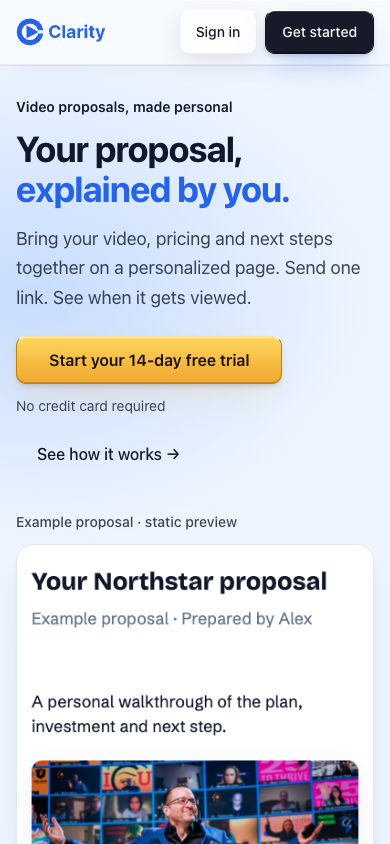
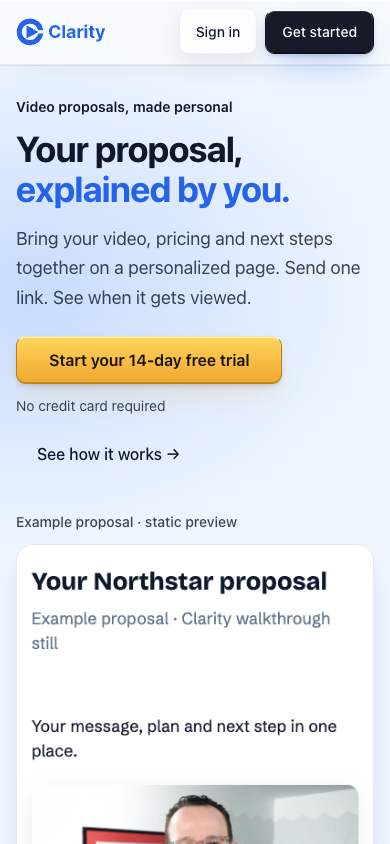
Publish design-benchmark-2026-11-04 (20261104T195632Z)

Changed region(s): [[0.0615, 0.8009, 0.9231, 1.0], [0.4615, 0.7085, 0.8308, 0.7701], [0.0923, 0.7393, 0.1538, 0.7701]]

diff --git a/design-benchmark-2026-11-04/index.html b/design-benchmark-2026-11-04/index.html
@@ -1,1 +1,1 @@
-<!doctype html><html lang="en"><head><meta charset="utf-8"><meta name="viewport" content="width=device-width,initial-scale=1"><title>Clarity design benchmark progress</title><style>*{box-sizing:border-box}html{scroll-behavior:smooth}body{margin:0;color:#172033;background:#f5f7fb;font:15px/1.6 system-ui,sans-serif}main{max-width:1100px;margin:auto;padding:40px 24px}header{max-width:850px}h1{font-size:clamp(30px,5vw,48px);line-height:1.12;letter-spacing:-.04em;margin:10px 0 18px}h2{font-size:25px;letter-spacing:-.025em}h3{margin:0 0 12px}a{color:#285dc5;text-underline-offset:3px}p{max-width:78ch}.eyebrow{font-size:13px;color:#56647c}.intro{font-size:20px;color:#56647c}.notice{padding:18px 20px;background:#e8effd;border-left:3px solid #285dc5;border-radius:6px}nav{display:flex;gap:20px;flex-wrap:wrap;padding:26px 0;border-bottom:1px solid #dce2ec}section{padding:30px 0}.chart{padding:22px;background:white;border:1px solid #dce2ec;border-radius:12px}.bar-row{display:grid;grid-template-columns:110px minmax(50px,1fr) 32px;gap:12px;align-items:center;margin:13px 0}.bar-row a{text-decoration:none}.track{height:18px;background:#edf1f7;border-radius:4px;overflow:hidden}.bar{height:100%;background:#3973dc;border-radius:4px}.table-wrap{overflow:auto}table{width:100%;border-collapse:collapse;background:white}th,td{padding:12px;text-align:left;border-bottom:1px solid #e1e5ec;vertical-align:top}tbody th{font-weight:550;min-width:150px}details{margin-top:14px}summary{cursor:pointer;font-weight:600}.cards{display:grid;grid-template-columns:repeat(2,minmax(0,1fr));gap:20px}article{background:white;border:1px solid #dce2ec;border-radius:12px;padding:18px;overflow:hidden}article img{display:block;width:100%;height:auto;border:1px solid #e1e5ec;border-radius:5px}article p{font-size:13px;color:#56647c}footer{border-top:1px solid #dce2ec;padding:22px 0;color:#56647c;font-size:13px}@media(max-width:650px){main{padding:24px 16px}.cards{grid-template-columns:1fr}.chart{padding:12px}.bar-row{grid-template-columns:92px minmax(40px,1fr) 28px;gap:8px;font-size:14px}th,td{padding:9px}}</style></head><body><main><header><p class="eyebrow">Clarity design study · 4 November 2026</p><h1>Clarity design benchmark</h1><p class="intro">Evidence and iterations, still in progress. No full-product score is established.</p><div class="notice"><strong>Provisional, one reviewer.</strong> These are GPT-6.1 Sol's marketing scores across seven commonly observed criteria, representing 52% of the rubric weight. Signed-in reference apps, accessibility and performance are unassessed. Opus 5.5 and Gemini reviews are pending.</div></header><nav><a href="#comparison">Comparison</a><a href="#rubric">Rubric</a><a href="#references">Captures</a><a href="#work">Work in progress</a></nav><section id="current-progress"><h2>Current progress</h2><p>Four scoped usability changes are verified: phone Leads, editor controls, recorder recovery and email validation. The homepage direction has improved and remains in iteration. These are branch-preview changes. Production is unchanged.</p><p><a href="https://pr-1692.clarity-video.workers.dev">Open the working PR preview</a> · <a href="https://github.com/Clarity-Video-HQ/clarity/pull/1692">Review PR 1692</a></p><h3>Homepage first-screen comparison</h3><p>One fresh GPT-6.1 Sol review graded the same nine observable criteria in all three versions. They cover 70% of criterion weight. Scores below describe the hero only.</p><div class="chart" role="img" aria-label="Homepage hero, original 5.60, first revision 6.60, current 7.46 out of ten, covering 70 percent of criterion weight"><div class="bar-row"><span>Original</span><div class="track"><div class="bar" style="width:56%"></div></div><span>5.60</span></div><div class="bar-row"><span>First revision</span><div class="track"><div class="bar" style="width:66%"></div></div><span>6.60</span></div><div class="bar-row"><span>Current</span><div class="track"><div class="bar" style="width:74.6%"></div></div><span>7.46</span></div></div><p>Reviewer uncertainty matters. An earlier review gave the original 5.83 and first revision 7.49. Those differences between reviews are not product changes. Neither review establishes a complete marketing-page or whole-product score.</p><div class="cards"><article><h3>Original hero</h3><img src="hero-original.png" width="1280" height="800" alt="Original Clarity hero with a sales multiplier claim and large event-speaker poster"><p>Baseline 8ab318a6. Public marketing capture.</p></article><article><h3>Current hero</h3><img src="hero-current.png" width="1280" height="800" alt="Revised Clarity hero with explicit proposal copy, trial button and labelled static proposal example"><p>Preview a63fff891. Runtime verified. The event poster and phone proof remain design weaknesses.</p></article></div><details><summary>Current phone capture</summary><img src="hero-current-phone.png" width="390" height="844" style="display:block;max-width:100%;height:auto" alt="Revised homepage at 390 pixels wide, with trial action and start of the proposal preview"></details><h3>Scoped app scores</h3><p>These totals cover specific tasks with different evidence boundaries. They do not rank entire product areas.</p><div class="table-wrap"><table><thead><tr><th>Task</th><th>Weighted score / 10</th><th>Criterion weight observed</th></tr></thead><tbody><tr><td>Phone Leads</td><td>6.52</td><td>96 / 100</td></tr><tr><td>Editor toolbar and palette</td><td>7.27</td><td>88 / 100</td></tr><tr><td>Missing-device recorder setup</td><td>7.33</td><td>96 / 100</td></tr><tr><td>Email-entry validation</td><td>7.42</td><td>96 / 100</td></tr></tbody></table></div><p>Missing evidence includes the complete three-model panel, signed-in competitor tasks, some onboarding and billing states, and broader accessibility and performance testing. The 9/10 goal remains unproven. No weekly quota warning has been observed; account balances are unavailable.</p></section><section id="comparison"><h2>Marketing comparison</h2><p>Same criteria and weights for each captured site. Scores describe the supplied frames, not the complete product. Some frames include consent notices or incomplete animation.</p><div class="chart" role="img" aria-label="Provisional marketing scores from one reviewer, out of ten"><div class="bar-row"><a href="https://clarity.video" target="_blank" rel="noreferrer">Clarity</a><div class="track"><div class="bar" style="width:54.62%"></div></div><strong>5.5</strong></div><div class="bar-row"><a href="https://attio.com" target="_blank" rel="noreferrer">Attio</a><div class="track"><div class="bar" style="width:76.92%"></div></div><strong>7.7</strong></div><div class="bar-row"><a href="https://supercut.ai" target="_blank" rel="noreferrer">Supercut</a><div class="track"><div class="bar" style="width:71.92%"></div></div><strong>7.2</strong></div><div class="bar-row"><a href="https://www.tella.com" target="_blank" rel="noreferrer">Tella</a><div class="track"><div class="bar" style="width:81.92%"></div></div><strong>8.2</strong></div><div class="bar-row"><a href="https://screen.studio" target="_blank" rel="noreferrer">Screen Studio</a><div class="track"><div class="bar" style="width:81.92%"></div></div><strong>8.2</strong></div><div class="bar-row"><a href="https://www.sendtrumpet.com" target="_blank" rel="noreferrer">Trumpet</a><div class="track"><div class="bar" style="width:62.31%"></div></div><strong>6.2</strong></div><div class="bar-row"><a href="https://pitch.com" target="_blank" rel="noreferrer">Pitch</a><div class="track"><div class="bar" style="width:73.46%"></div></div><strong>7.3</strong></div><div class="bar-row"><a href="https://linear.app" target="_blank" rel="noreferrer">Linear</a><div class="track"><div class="bar" style="width:71.54%"></div></div><strong>7.2</strong></div><div class="bar-row"><a href="https://www.papermark.com" target="_blank" rel="noreferrer">Papermark</a><div class="track"><div class="bar" style="width:78.85%"></div></div><strong>7.9</strong></div><div class="bar-row"><a href="https://www.framer.com" target="_blank" rel="noreferrer">Framer</a><div class="track"><div class="bar" style="width:81.92%"></div></div><strong>8.2</strong></div></div><details><summary>Criteria included in this chart</summary><p>brand craft, color, hierarchy, layout, task clarity, trust copy, typography. Scores are weighted by the published rubric, then normalized over this shared subset. The order follows the review packet rather than ranking the products.</p></details></section><section id="rubric"><h2>What the full assessment measures</h2><p>These weights express Clarity's priorities. They are not an industry-standard certification. Missing evidence remains unassessed.</p><div class="table-wrap"><table><thead><tr><th>Criterion</th><th>Weight</th><th>What it measures</th></tr></thead><tbody><tr><th>Task clarity</th><td>10%</td><td>Purpose, next action, navigation, information architecture and understandable labels.</td></tr><tr><th>Hierarchy</th><td>10%</td><td>Visual priority, grouping, progressive disclosure and scannability.</td></tr><tr><th>Typography</th><td>8%</td><td>Legibility, type scale, line length, line height and type consistency.</td></tr><tr><th>Layout</th><td>8%</td><td>Alignment, spacing rhythm, density, composition and appropriate use of space.</td></tr><tr><th>Color</th><td>6%</td><td>Color semantics, visual separation and restraint. Technical contrast compliance is scored under accessibility.</td></tr><tr><th>Consistency</th><td>10%</td><td>Predictable controls, terminology, components, navigation and cross-screen behavior.</td></tr><tr><th>Interaction</th><td>8%</td><td>Discoverable affordances, direct manipulation, user control, task efficiency and keyboard alternatives.</td></tr><tr><th>States</th><td>8%</td><td>Useful empty, loading, success, validation, failure and recovery states; preservation of user work.</td></tr><tr><th>Accessibility</th><td>10%</td><td>Measured contrast, semantics, accessible names, focus order/visibility, keyboard use, zoom and motion preferences. Screenshots alone cannot establish this score.</td></tr><tr><th>Responsive</th><td>8%</td><td>Observed phone and desktop usability, overflow, target size, reflow and content priority.</td></tr><tr><th>Trust copy</th><td>6%</td><td>Precise language, reassurance, truthful status, predictable privacy and clear billing/publishing consequences.</td></tr><tr><th>Brand craft</th><td>4%</td><td>Distinctive, coherent identity; polished imagery and details serving this audience and task.</td></tr><tr><th>Perceived performance</th><td>4%</td><td>Observed feedback latency, loading stability, media readiness and motion that does not delay work. Record session conditions; do not infer speed from an image.</td></tr></tbody></table></div><p>The full-product assessment also weights the editor at 18%, Library at 12%, buyer pages at 12%, marketing/onboarding/recorder/sharing at 10% each, analytics at 8%, and settings/billing at 5% each.</p></section><section id="work"><h2>Work in progress</h2><p><a href="https://github.com/Clarity-Video-HQ/clarity/pull/1692">Draft PR #1692</a> contains verified phone Leads, editor controls, recorder recovery and email validation changes. The homepage is under design iteration. Check results and captured commits are recorded with each change; the full-product assessment remains incomplete. The PR remains unmerged.</p><p>Remaining work includes fuller onboarding and billing evidence, signed-in reference tasks and further visual refinement. A reported analytics count mismatch remains a follow-up.</p><article><h3>First verified improvement: phone Leads</h3><p>At commit 919e1a83f, independent browser checks confirmed complete wrapping at 320px and 390px and field-label contrast of at least 16.15:1. Search, page filtering, pagination, and deleted-page link behavior passed at the prior head; the final change only darkened labels. Screen reader, zoom and admin Organizations remain untested. This is a verified scoped improvement, not a full-product design grade.</p><img src="leads-phone-after.png" alt="Synthetic Leads records on phone after the layout and contrast changes" style="max-width:390px"><p>Only synthetic test data appears in this screenshot. The baseline app screenshots remain private.</p></article><p>No complete three-model grade or 9/10 result is claimed. Competitor account access, additional interaction states, and the remaining reviewer seats are required for the full assessment.</p></section><section id="references"><h2>Public reference captures</h2><p>Only public marketing pages appear here. Private app screens, test-account identities and authentication data are excluded.</p><div class="cards"><article><h3><a href="https://clarity.video" target="_blank" rel="noreferrer">Clarity</a></h3><img src="clarity.png" alt="Public Clarity homepage, initial research capture" loading="lazy"><p>Public marketing capture. This image does not establish signed-in app quality.</p></article><article><h3><a href="https://attio.com" target="_blank" rel="noreferrer">Attio</a></h3><img src="attio.png" alt="Public Attio homepage, initial research capture" loading="lazy"><p>Public marketing capture. This image does not establish signed-in app quality.</p></article><article><h3><a href="https://supercut.ai" target="_blank" rel="noreferrer">Supercut</a></h3><img src="supercut.png" alt="Public Supercut homepage, initial research capture" loading="lazy"><p>Public marketing capture. Animation readiness uncertain; recollection needed before final grading.</p></article><article><h3><a href="https://www.tella.com" target="_blank" rel="noreferrer">Tella</a></h3><img src="tella.png" alt="Public Tella homepage, initial research capture" loading="lazy"><p>Public marketing capture. This image does not establish signed-in app quality.</p></article><article><h3><a href="https://screen.studio" target="_blank" rel="noreferrer">Screen Studio</a></h3><img src="screen-studio.png" alt="Public Screen Studio homepage, initial research capture" loading="lazy"><p>Public marketing capture. This image does not establish signed-in app quality.</p></article><article><h3><a href="https://www.sendtrumpet.com" target="_blank" rel="noreferrer">Trumpet</a></h3><img src="trumpet.png" alt="Public Trumpet homepage, initial research capture" loading="lazy"><p>Public marketing capture. Animation readiness uncertain; recollection needed before final grading.</p></article><article><h3><a href="https://pitch.com" target="_blank" rel="noreferrer">Pitch</a></h3><img src="pitch.png" alt="Public Pitch homepage, initial research capture" loading="lazy"><p>Public marketing capture. This image does not establish signed-in app quality.</p></article><article><h3><a href="https://linear.app" target="_blank" rel="noreferrer">Linear</a></h3><img src="linear.png" alt="Public Linear homepage, initial research capture" loading="lazy"><p>Public marketing capture. Animation readiness uncertain; recollection needed before final grading.</p></article><article><h3><a href="https://www.papermark.com" target="_blank" rel="noreferrer">Papermark</a></h3><img src="papermark.png" alt="Public Papermark homepage, initial research capture" loading="lazy"><p>Public marketing capture. This image does not establish signed-in app quality.</p></article><article><h3><a href="https://www.framer.com" target="_blank" rel="noreferrer">Framer</a></h3><img src="framer.png" alt="Public Framer homepage, initial research capture" loading="lazy"><p>Public marketing capture. This image does not establish signed-in app quality.</p></article></div></section><section id="editor-refinement"><h2>Second verified refinement: editor controls</h2><p>At commit 32269ae32, independent browser checks confirmed two toolbar rows at 320px and 390px, visible Style and Share labels, and a working one-row desktop header. The Style palette fits at 320px. Escape closes the nested color picker before the Style panel and returns focus to the appropriate opener. The AI popover also returns focus correctly.</p><p>Share opens its dialog without publishing. This verifies the tested interactions; it is not a full editor score or a screen-reader certification.</p><img src="editor-phone-after.png" alt="Synthetic Journey Page in the compact phone editor" style="display:block;max-width:320px;width:100%;border:1px solid #dce2ec;border-radius:8px"><p>Recorder recovery and labels were verified at a4aa2e7. Selected-label contrast was at least 14.40:1, and the embedded recorder fit at 320px and 390px. Real hardware, screen reader and zoom remain unassessed.</p></section><footer>Evidence date: 4 November 2026. Screenshots and first-pass ratings are retained for reproducibility. Product pages can change.</footer></main></body></html>
+<!doctype html><html lang="en"><head><meta charset="utf-8"><meta name="viewport" content="width=device-width,initial-scale=1"><title>Clarity design benchmark progress</title><style>*{box-sizing:border-box}html{scroll-behavior:smooth}body{margin:0;color:#172033;background:#f5f7fb;font:15px/1.6 system-ui,sans-serif}main{max-width:1100px;margin:auto;padding:40px 24px}header{max-width:850px}h1{font-size:clamp(30px,5vw,48px);line-height:1.12;letter-spacing:-.04em;margin:10px 0 18px}h2{font-size:25px;letter-spacing:-.025em}h3{margin:0 0 12px}a{color:#285dc5;text-underline-offset:3px}p{max-width:78ch}.eyebrow{font-size:13px;color:#56647c}.intro{font-size:20px;color:#56647c}.notice{padding:18px 20px;background:#e8effd;border-left:3px solid #285dc5;border-radius:6px}nav{display:flex;gap:20px;flex-wrap:wrap;padding:26px 0;border-bottom:1px solid #dce2ec}section{padding:30px 0}.chart{padding:22px;background:white;border:1px solid #dce2ec;border-radius:12px}.bar-row{display:grid;grid-template-columns:110px minmax(50px,1fr) 32px;gap:12px;align-items:center;margin:13px 0}.bar-row a{text-decoration:none}.track{height:18px;background:#edf1f7;border-radius:4px;overflow:hidden}.bar{height:100%;background:#3973dc;border-radius:4px}.table-wrap{overflow:auto}table{width:100%;border-collapse:collapse;background:white}th,td{padding:12px;text-align:left;border-bottom:1px solid #e1e5ec;vertical-align:top}tbody th{font-weight:550;min-width:150px}details{margin-top:14px}summary{cursor:pointer;font-weight:600}.cards{display:grid;grid-template-columns:repeat(2,minmax(0,1fr));gap:20px}article{background:white;border:1px solid #dce2ec;border-radius:12px;padding:18px;overflow:hidden}article img{display:block;width:100%;height:auto;border:1px solid #e1e5ec;border-radius:5px}article p{font-size:13px;color:#56647c}footer{border-top:1px solid #dce2ec;padding:22px 0;color:#56647c;font-size:13px}@media(max-width:650px){main{padding:24px 16px}.cards{grid-template-columns:1fr}.chart{padding:12px}.bar-row{grid-template-columns:92px minmax(40px,1fr) 28px;gap:8px;font-size:14px}th,td{padding:9px}}</style></head><body><main><header><p class="eyebrow">Clarity design study · 4 November 2026</p><h1>Clarity design benchmark</h1><p class="intro">Evidence and iterations, still in progress. No full-product score is established.</p><div class="notice"><strong>Provisional, one reviewer.</strong> These are GPT-6.1 Sol's marketing scores across seven commonly observed criteria, representing 52% of the rubric weight. Signed-in reference apps, accessibility and performance are unassessed. Opus 5.5 and Gemini reviews are pending.</div></header><nav><a href="#current-progress">Progress</a><a href="#comparison">Comparison</a><a href="#rubric">Rubric</a><a href="#references">Captures</a><a href="#work">Work in progress</a></nav><section id="current-progress"><h2>Current progress</h2><p>Seven changes have passed scoped checks on the PR preview: Leads, editor controls, recorder recovery, email validation, the homepage example, Library cards and Settings navigation. Production is unchanged. No whole-product score is established.</p><p><a href="https://pr-1692.clarity-video.workers.dev">Open the PR preview</a> · <a href="https://github.com/Clarity-Video-HQ/clarity/pull/1692">Review PR 1692</a></p><h3>Latest matched design reviews</h3><p>Each row uses one independent GPT-6.1 Sol review and the same criteria before and after. The areas and evidence differ, so these rows do not rank the areas against one another.</p><div class="table-wrap"><table><thead><tr><th>Area reviewed</th><th>Before / 10</th><th>After / 10</th><th>Shared criterion weight</th></tr></thead><tbody><tr><td>Homepage hero</td><td>5.54</td><td>6.91</td><td>70 / 100</td></tr><tr><td>Library cards</td><td>5.62</td><td>7.26</td><td>78 / 100</td></tr><tr><td>Settings navigation</td><td>6.13</td><td>7.03</td><td>78 / 100</td></tr></tbody></table></div><p>These are partial design ratings, not complete scores for marketing, Library or Settings. Missing criteria are excluded, never filled with zero. Scores vary between reviewers and rounds; the latest hero review rated the preceding version 6.81 and the presenter version 6.91. An earlier review rated another hero comparison 7.46. Treat those as separate judgments, not a measured decline.</p><h3>Library before and after</h3><div class="cards"><article><h3>Before</h3><img src="library-before.png" width="390" height="844" alt="Library before: single-line truncated titles and icon-only card actions"><p>Baseline 98397d41d. Two synthetic draft proposals.</p></article><article><h3>After</h3><img src="library-after.png" width="390" height="844" alt="Library after: two-line proposal titles and persistent Edit and Share actions"><p>Verified cb3b8772e. At 320px, cards use one column so full titles fit. The reviewer retains the change and flags vertical density for further work.</p></article></div><h3>Homepage before and after</h3><div class="cards"><article><h3>Original hero</h3><img src="hero-original.png" width="1280" height="800" alt="Original Clarity hero with a sales multiplier claim and large event-speaker poster"><p>Baseline 8ab318a6. Public marketing capture.</p></article><article><h3>Current hero</h3><img src="hero-current.png" width="1280" height="800" alt="Clarity hero explaining a video proposal, with a trial action and a labelled proposal example using a presenter still"><p>Verified 98397d41d. The example uses a still from Clarity's public walkthrough. Mobile proof placement and limited workflow demonstration remain weaknesses.</p></article></div><details><summary>Current homepage on a phone</summary><img src="hero-current-phone.png" width="390" height="844" style="display:block;max-width:100%;height:auto" alt="Current homepage at 390 pixels wide, with the trial action before the proposal example"></details><h3>Settings navigation</h3><p>Verified ac1d98546. All five destinations are visible without sideways scrolling at 320px and 390px. Targets are 44px high, focus rings remain visible, and measured inactive-label contrast is at least 9.11:1. The tradeoff is a taller header: 141px at 320px instead of 45px. Private account screenshots are excluded from this public report.</p><h3>Earlier scoped app reviews</h3><p>These ratings describe narrow tasks and use different evidence boundaries.</p><div class="table-wrap"><table><thead><tr><th>Task</th><th>Weighted score / 10</th><th>Criterion weight observed</th></tr></thead><tbody><tr><td>Phone Leads</td><td>6.52</td><td>96 / 100</td></tr><tr><td>Editor toolbar and palette</td><td>7.27</td><td>88 / 100</td></tr><tr><td>Missing-device recorder setup</td><td>7.33</td><td>96 / 100</td></tr><tr><td>Email-entry validation</td><td>7.42</td><td>96 / 100</td></tr></tbody></table></div><p>Outstanding evidence includes the three-model panel, signed-in competitor tasks, some onboarding and billing states, and broader accessibility and performance testing. Claude and Cursor remain unauthenticated. Gemini 4 Argon is selected in Cursor but has not reviewed the product. No weekly quota warning has been observed; account balances are unavailable. The 9/10 goal remains unproven.</p></section><section id="comparison"><h2>Marketing comparison</h2><p>Same criteria and weights for each captured site. Scores describe the supplied frames, not the complete product. Some frames include consent notices or incomplete animation.</p><div class="chart" role="img" aria-label="Provisional marketing scores from one reviewer, out of ten"><div class="bar-row"><a href="https://clarity.video" target="_blank" rel="noreferrer">Clarity</a><div class="track"><div class="bar" style="width:54.62%"></div></div><strong>5.5</strong></div><div class="bar-row"><a href="https://attio.com" target="_blank" rel="noreferrer">Attio</a><div class="track"><div class="bar" style="width:76.92%"></div></div><strong>7.7</strong></div><div class="bar-row"><a href="https://supercut.ai" target="_blank" rel="noreferrer">Supercut</a><div class="track"><div class="bar" style="width:71.92%"></div></div><strong>7.2</strong></div><div class="bar-row"><a href="https://www.tella.com" target="_blank" rel="noreferrer">Tella</a><div class="track"><div class="bar" style="width:81.92%"></div></div><strong>8.2</strong></div><div class="bar-row"><a href="https://screen.studio" target="_blank" rel="noreferrer">Screen Studio</a><div class="track"><div class="bar" style="width:81.92%"></div></div><strong>8.2</strong></div><div class="bar-row"><a href="https://www.sendtrumpet.com" target="_blank" rel="noreferrer">Trumpet</a><div class="track"><div class="bar" style="width:62.31%"></div></div><strong>6.2</strong></div><div class="bar-row"><a href="https://pitch.com" target="_blank" rel="noreferrer">Pitch</a><div class="track"><div class="bar" style="width:73.46%"></div></div><strong>7.3</strong></div><div class="bar-row"><a href="https://linear.app" target="_blank" rel="noreferrer">Linear</a><div class="track"><div class="bar" style="width:71.54%"></div></div><strong>7.2</strong></div><div class="bar-row"><a href="https://www.papermark.com" target="_blank" rel="noreferrer">Papermark</a><div class="track"><div class="bar" style="width:78.85%"></div></div><strong>7.9</strong></div><div class="bar-row"><a href="https://www.framer.com" target="_blank" rel="noreferrer">Framer</a><div class="track"><div class="bar" style="width:81.92%"></div></div><strong>8.2</strong></div></div><details><summary>Criteria included in this chart</summary><p>brand craft, color, hierarchy, layout, task clarity, trust copy, typography. Scores are weighted by the published rubric, then normalized over this shared subset. The order follows the review packet rather than ranking the products.</p></details></section><section id="rubric"><h2>What the full assessment measures</h2><p>These weights express Clarity's priorities. They are not an industry-standard certification. Missing evidence remains unassessed.</p><div class="table-wrap"><table><thead><tr><th>Criterion</th><th>Weight</th><th>What it measures</th></tr></thead><tbody><tr><th>Task clarity</th><td>10%</td><td>Purpose, next action, navigation, information architecture and understandable labels.</td></tr><tr><th>Hierarchy</th><td>10%</td><td>Visual priority, grouping, progressive disclosure and scannability.</td></tr><tr><th>Typography</th><td>8%</td><td>Legibility, type scale, line length, line height and type consistency.</td></tr><tr><th>Layout</th><td>8%</td><td>Alignment, spacing rhythm, density, composition and appropriate use of space.</td></tr><tr><th>Color</th><td>6%</td><td>Color semantics, visual separation and restraint. Technical contrast compliance is scored under accessibility.</td></tr><tr><th>Consistency</th><td>10%</td><td>Predictable controls, terminology, components, navigation and cross-screen behavior.</td></tr><tr><th>Interaction</th><td>8%</td><td>Discoverable affordances, direct manipulation, user control, task efficiency and keyboard alternatives.</td></tr><tr><th>States</th><td>8%</td><td>Useful empty, loading, success, validation, failure and recovery states; preservation of user work.</td></tr><tr><th>Accessibility</th><td>10%</td><td>Measured contrast, semantics, accessible names, focus order/visibility, keyboard use, zoom and motion preferences. Screenshots alone cannot establish this score.</td></tr><tr><th>Responsive</th><td>8%</td><td>Observed phone and desktop usability, overflow, target size, reflow and content priority.</td></tr><tr><th>Trust copy</th><td>6%</td><td>Precise language, reassurance, truthful status, predictable privacy and clear billing/publishing consequences.</td></tr><tr><th>Brand craft</th><td>4%</td><td>Distinctive, coherent identity; polished imagery and details serving this audience and task.</td></tr><tr><th>Perceived performance</th><td>4%</td><td>Observed feedback latency, loading stability, media readiness and motion that does not delay work. Record session conditions; do not infer speed from an image.</td></tr></tbody></table></div><p>The full-product assessment also weights the editor at 18%, Library at 12%, buyer pages at 12%, marketing/onboarding/recorder/sharing at 10% each, analytics at 8%, and settings/billing at 5% each.</p></section><section id="work"><h2>Work in progress</h2><p><a href="https://github.com/Clarity-Video-HQ/clarity/pull/1692">Draft PR #1692</a> contains verified phone Leads, editor controls, recorder recovery and email validation changes. The homepage is under design iteration. Check results and captured commits are recorded with each change; the full-product assessment remains incomplete. The PR remains unmerged.</p><p>Remaining work includes fuller onboarding and billing evidence, signed-in reference tasks and further visual refinement. A reported analytics count mismatch remains a follow-up.</p><article><h3>First verified improvement: phone Leads</h3><p>At commit 919e1a83f, independent browser checks confirmed complete wrapping at 320px and 390px and field-label contrast of at least 16.15:1. Search, page filtering, pagination, and deleted-page link behavior passed at the prior head; the final change only darkened labels. Screen reader, zoom and admin Organizations remain untested. This is a verified scoped improvement, not a full-product design grade.</p><img src="leads-phone-after.png" alt="Synthetic Leads records on phone after the layout and contrast changes" style="max-width:390px"><p>Only synthetic test data appears in this screenshot. The baseline app screenshots remain private.</p></article><p>No complete three-model grade or 9/10 result is claimed. Competitor account access, additional interaction states, and the remaining reviewer seats are required for the full assessment.</p></section><section id="references"><h2>Public reference captures</h2><p>Only public marketing pages appear here. Private app screens, test-account identities and authentication data are excluded.</p><div class="cards"><article><h3><a href="https://clarity.video" target="_blank" rel="noreferrer">Clarity</a></h3><img src="clarity.png" alt="Public Clarity homepage, initial research capture" loading="lazy"><p>Public marketing capture. This image does not establish signed-in app quality.</p></article><article><h3><a href="https://attio.com" target="_blank" rel="noreferrer">Attio</a></h3><img src="attio.png" alt="Public Attio homepage, initial research capture" loading="lazy"><p>Public marketing capture. This image does not establish signed-in app quality.</p></article><article><h3><a href="https://supercut.ai" target="_blank" rel="noreferrer">Supercut</a></h3><img src="supercut.png" alt="Public Supercut homepage, initial research capture" loading="lazy"><p>Public marketing capture. Animation readiness uncertain; recollection needed before final grading.</p></article><article><h3><a href="https://www.tella.com" target="_blank" rel="noreferrer">Tella</a></h3><img src="tella.png" alt="Public Tella homepage, initial research capture" loading="lazy"><p>Public marketing capture. This image does not establish signed-in app quality.</p></article><article><h3><a href="https://screen.studio" target="_blank" rel="noreferrer">Screen Studio</a></h3><img src="screen-studio.png" alt="Public Screen Studio homepage, initial research capture" loading="lazy"><p>Public marketing capture. This image does not establish signed-in app quality.</p></article><article><h3><a href="https://www.sendtrumpet.com" target="_blank" rel="noreferrer">Trumpet</a></h3><img src="trumpet.png" alt="Public Trumpet homepage, initial research capture" loading="lazy"><p>Public marketing capture. Animation readiness uncertain; recollection needed before final grading.</p></article><article><h3><a href="https://pitch.com" target="_blank" rel="noreferrer">Pitch</a></h3><img src="pitch.png" alt="Public Pitch homepage, initial research capture" loading="lazy"><p>Public marketing capture. This image does not establish signed-in app quality.</p></article><article><h3><a href="https://linear.app" target="_blank" rel="noreferrer">Linear</a></h3><img src="linear.png" alt="Public Linear homepage, initial research capture" loading="lazy"><p>Public marketing capture. Animation readiness uncertain; recollection needed before final grading.</p></article><article><h3><a href="https://www.papermark.com" target="_blank" rel="noreferrer">Papermark</a></h3><img src="papermark.png" alt="Public Papermark homepage, initial research capture" loading="lazy"><p>Public marketing capture. This image does not establish signed-in app quality.</p></article><article><h3><a href="https://www.framer.com" target="_blank" rel="noreferrer">Framer</a></h3><img src="framer.png" alt="Public Framer homepage, initial research capture" loading="lazy"><p>Public marketing capture. This image does not establish signed-in app quality.</p></article></div></section><section id="editor-refinement"><h2>Second verified refinement: editor controls</h2><p>At commit 32269ae32, independent browser checks confirmed two toolbar rows at 320px and 390px, visible Style and Share labels, and a working one-row desktop header. The Style palette fits at 320px. Escape closes the nested color picker before the Style panel and returns focus to the appropriate opener. The AI popover also returns focus correctly.</p><p>Share opens its dialog without publishing. This verifies the tested interactions; it is not a full editor score or a screen-reader certification.</p><img src="editor-phone-after.png" alt="Synthetic Journey Page in the compact phone editor" style="display:block;max-width:320px;width:100%;border:1px solid #dce2ec;border-radius:8px"><p>Recorder recovery and labels were verified at a4aa2e7. Selected-label contrast was at least 14.40:1, and the embedded recorder fit at 320px and 390px. Real hardware, screen reader and zoom remain unassessed.</p></section><footer>Evidence date: 4 November 2026. Screenshots and first-pass ratings are retained for reproducibility. Product pages can change.</footer></main></body></html>

diff --git a/index.html b/index.html
@@ -1,7 +1,7 @@
 <!doctype html><meta charset="utf-8"><title>Clarity design previews</title>
 <style>body{font-family:system-ui,sans-serif;max-width:40rem;margin:4rem auto;padding:0 1rem;color:#0f172a}a{color:#2563eb}li{margin:.4rem 0}</style>
 <h1>Clarity design previews</h1>
-<li><a href="./design-benchmark-2026-11-04/">Clarity design benchmark: evidence and progress</a> <small>20261104T183010Z</small></li>
+<li><a href="./design-benchmark-2026-11-04/">Clarity design benchmark and verified iterations</a> <small>20261104T195632Z</small></li>
 <li><a href="./candidate-4-auth-verification/">Email validation at phone widths</a> <small>20261104T172046Z</small></li>
 <li><a href="./ai-writer-failure-message/">AI page writer: what a rep sees when OpenAI refuses</a> <small>20261103T212425Z</small></li>
 <li><a href="./ask-clarity-d18-model-judgment-2026-11-03/">D18: a chat model switch helps but does not clear the gate</a> <small>20261103T195127Z</small></li>
